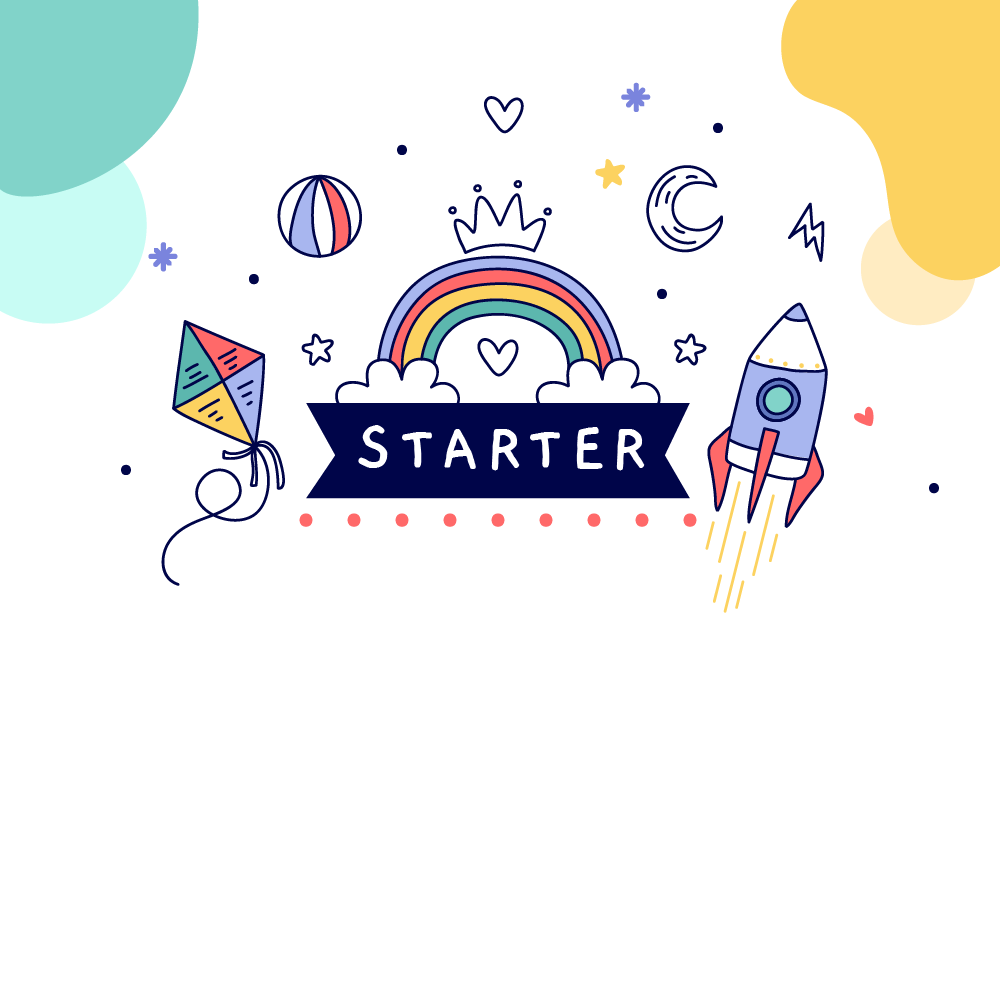
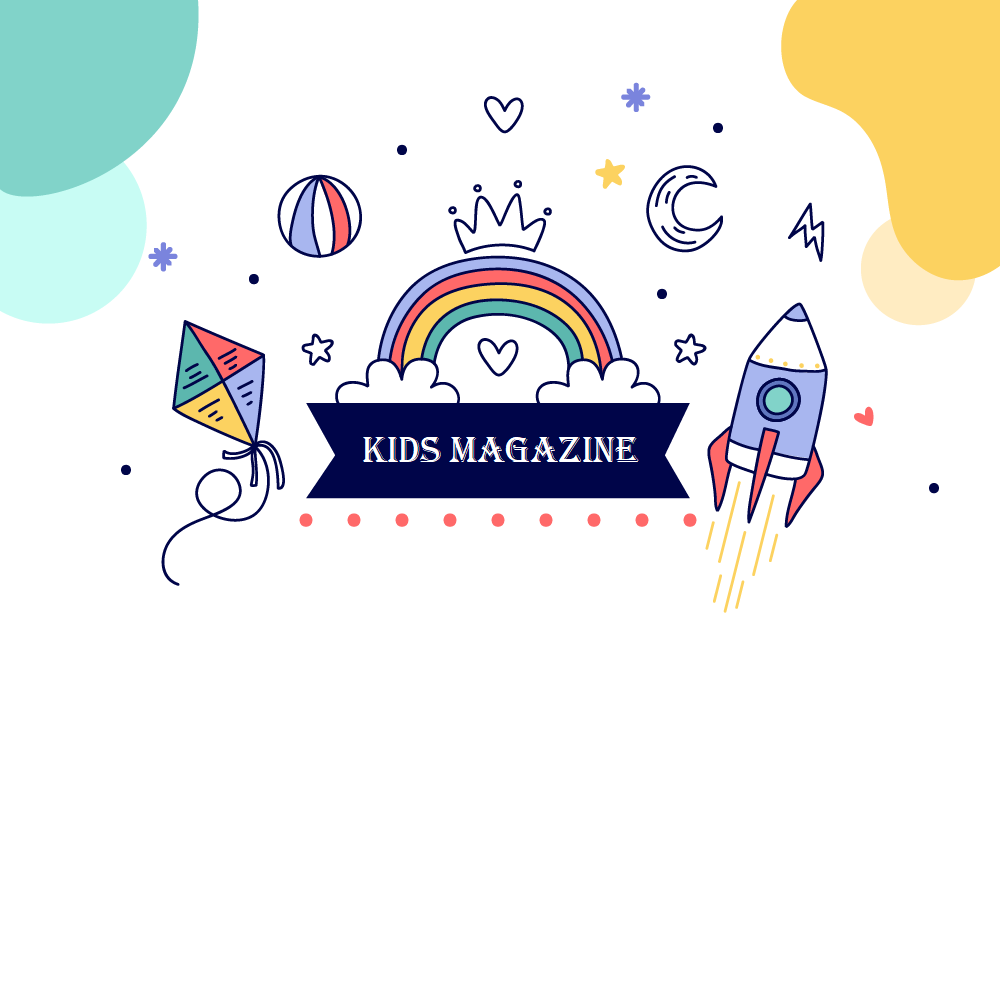
first commit

Changed region(s): [[0.341, 0.434, 0.651, 0.465]]

diff --git a/lib/main.dart b/lib/main.dart
@@ -10,7 +10,7 @@ class MyApp extends StatelessWidget {
   Widget build(BuildContext context) {
     return MaterialApp(
       debugShowCheckedModeBanner: false,
-      title: 'KidStarter',
+      title: "KidsMagazine",
       theme: ThemeData(
         scaffoldBackgroundColor: kBackgroundColor,
         fontFamily: "CabinSketch",
